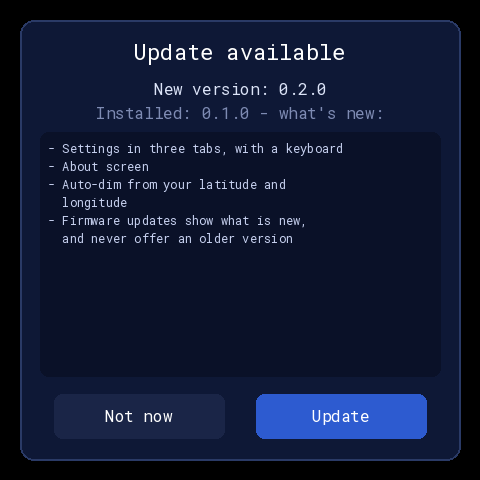
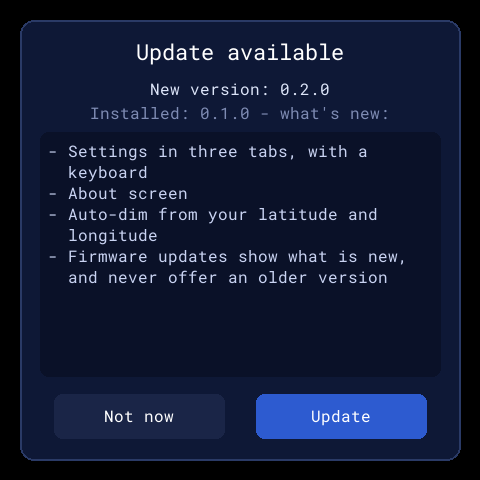
Update prompt release notes use the 16 px font, as sky-tracker (UI-68c)

diff --git a/tools/render_pages.py b/tools/render_pages.py
@@ -659,9 +659,9 @@ def _card(mode):
         nx, ny = x0 + (cw - c["NOTES_W"]) // 2, y0 + c["NOTES_Y"]
         d.rounded_rectangle([nx, ny, nx + c["NOTES_W"], ny + c["NOTES_H"]], 8, fill=(0x0A, 0x11, 0x28))
         d.multiline_text((nx + 8, ny + 8),
-            "- Settings in three tabs, with a keyboard\n- About screen\n- Auto-dim from your latitude and\n  longitude\n"
+            "- Settings in three tabs, with a\n  keyboard\n- About screen\n- Auto-dim from your latitude and\n  longitude\n"
             "- Firmware updates show what is new,\n  and never offer an older version",
-            font=FONT[12], fill=TEXT, spacing=5)
+            font=FONT[16], fill=TEXT, spacing=4)
         button(0, "Not now", (0x1A, 0x25, 0x47)); button(1, "Update", BORDER); name = "overlay-update-available"
     elif mode == "installing":
         line("Updating firmware", 16, 22, WHITE); line("Downloading", l1y, 16, (0xDC, 0xE4, 0xF8))

diff --git a/f1-tracker/f1_update.h b/f1-tracker/f1_update.h
@@ -155,7 +155,7 @@ inline void open() {
   lv_obj_add_flag(n, LV_OBJ_FLAG_HIDDEN);
   ui_.notes = n;
   ui_.notes_lbl = lv_label_create(n);
-  if (f_small) lv_obj_set_style_text_font(ui_.notes_lbl, f_small, 0);
+  if (f_body) lv_obj_set_style_text_font(ui_.notes_lbl, f_body, 0);   // 16 px: 12 px was blurry (as sky-tracker)
   lv_obj_set_style_text_color(ui_.notes_lbl, lv_color_hex(0xC9D3F2), 0);
   lv_obj_set_width(ui_.notes_lbl, NOTES_W - 16);
   lv_label_set_long_mode(ui_.notes_lbl, LV_LABEL_LONG_WRAP);

diff --git a/REQUIREMENTS.md b/REQUIREMENTS.md
@@ -230,7 +230,8 @@ refreshable.
         and tapping it shows the prompt;
       - **UI-68c: the prompt shows the release notes** - the manifest's
         `ota.summary`, Markdown marks dropped, blank runs squeezed, typographic
-        punctuation folded to the fonts, at most ~1.5 KB, in a box that scrolls.
+        punctuation folded to the fonts, at most ~1.5 KB, in a box that scrolls
+        in the 16 px font (12 px was blurry in `sky-tracker`).
         `tools/make_release.py` writes it, from `--notes FILE` or the commit
         subjects since the previous tag;
       - **UI-68b: the install** is one blocking call on the main loop, so the
